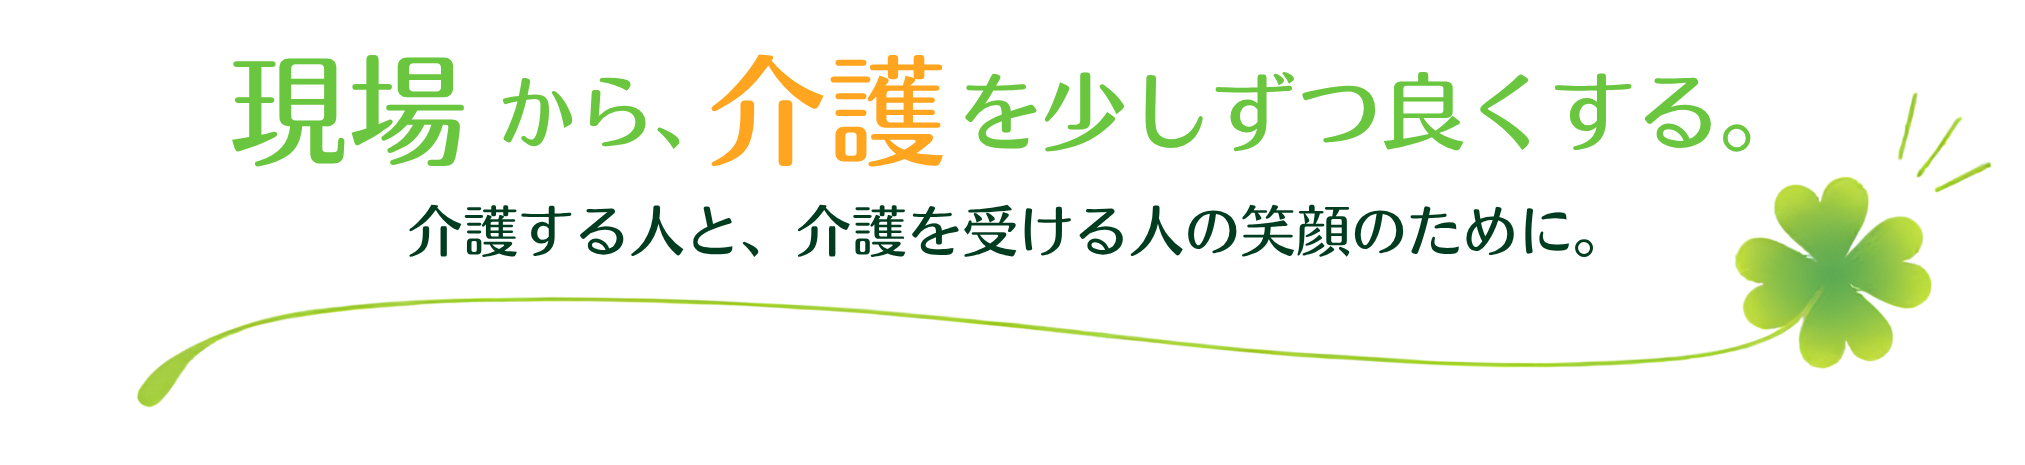
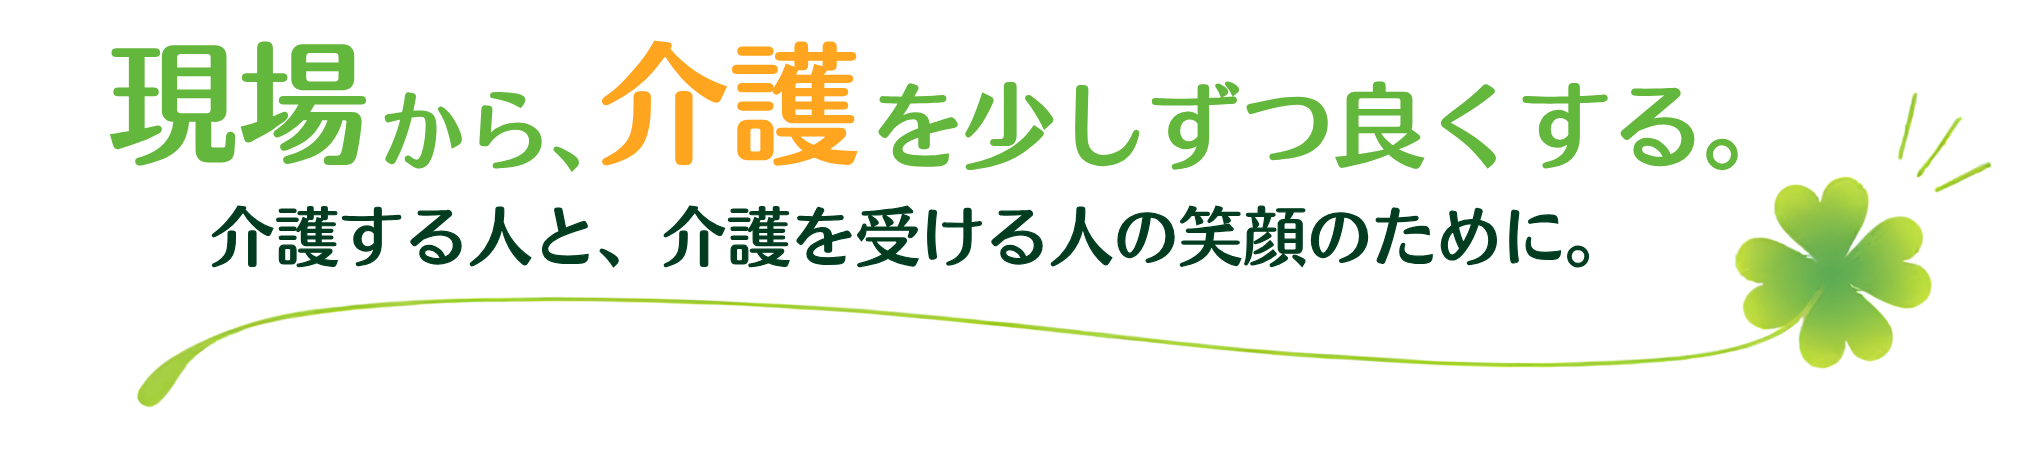
Add files via upload

Changed region(s): [[0.0311, 0.0903, 0.8711, 0.3613], [0.0933, 0.4215, 0.8089, 0.572]]

diff --git a/contact.html b/contact.html
@@ -158,7 +158,7 @@
             
             <!-- Catchphrase (Right) -->
             <div class="flex justify-end items-center flex-shrink min-w-0 max-w-[190px] sm:max-w-[300px] md:max-w-[420px] lg:max-w-[520px]">
-                <img src="assets/images/header-catchphrase.png?v=20260924" alt="現場から、介護を少しずつ良くする。介護する人と、介護を受ける人の笑顔のために。" class="h-10 sm:h-12 md:h-[3.75rem] lg:h-[4.5rem] w-auto max-w-full object-contain">
+                <img src="assets/images/header-catchphrase.png?v=20260925" alt="現場から、介護を少しずつ良くする。介護する人と、介護を受ける人の笑顔のために。" class="h-10 sm:h-12 md:h-[3.75rem] lg:h-[4.5rem] w-auto max-w-full object-contain">
             </div>
         </div>
     </header>

diff --git a/service.html b/service.html
@@ -100,7 +100,7 @@
             
             <!-- Catchphrase (Right) -->
             <div class="flex justify-end items-center flex-shrink min-w-0 max-w-[190px] sm:max-w-[300px] md:max-w-[420px] lg:max-w-[520px]">
-                <img src="assets/images/header-catchphrase.png?v=20260924" alt="現場から、介護を少しずつ良くする。介護する人と、介護を受ける人の笑顔のために。" class="h-10 sm:h-12 md:h-[3.75rem] lg:h-[4.5rem] w-auto max-w-full object-contain">
+                <img src="assets/images/header-catchphrase.png?v=20260925" alt="現場から、介護を少しずつ良くする。介護する人と、介護を受ける人の笑顔のために。" class="h-10 sm:h-12 md:h-[3.75rem] lg:h-[4.5rem] w-auto max-w-full object-contain">
             </div>
         </div>
     </header>

diff --git a/sns.html b/sns.html
@@ -222,7 +222,7 @@
             
             <!-- Catchphrase (Right) -->
             <div class="flex justify-end items-center flex-shrink min-w-0 max-w-[190px] sm:max-w-[300px] md:max-w-[420px] lg:max-w-[520px]">
-                <img src="assets/images/header-catchphrase.png?v=20260924" alt="現場から、介護を少しずつ良くする。介護する人と、介護を受ける人の笑顔のために。" class="h-10 sm:h-12 md:h-[3.75rem] lg:h-[4.5rem] w-auto max-w-full object-contain">
+                <img src="assets/images/header-catchphrase.png?v=20260925" alt="現場から、介護を少しずつ良くする。介護する人と、介護を受ける人の笑顔のために。" class="h-10 sm:h-12 md:h-[3.75rem] lg:h-[4.5rem] w-auto max-w-full object-contain">
             </div>
         </div>
     </header>

diff --git a/company.html b/company.html
@@ -78,7 +78,7 @@
             
             <!-- Catchphrase (Right) -->
             <div class="flex justify-end items-center flex-shrink min-w-0 max-w-[190px] sm:max-w-[300px] md:max-w-[420px] lg:max-w-[520px]">
-                <img src="assets/images/header-catchphrase.png?v=20260924" alt="現場から、介護を少しずつ良くする。介護する人と、介護を受ける人の笑顔のために。" class="h-10 sm:h-12 md:h-[3.75rem] lg:h-[4.5rem] w-auto max-w-full object-contain">
+                <img src="assets/images/header-catchphrase.png?v=20260925" alt="現場から、介護を少しずつ良くする。介護する人と、介護を受ける人の笑顔のために。" class="h-10 sm:h-12 md:h-[3.75rem] lg:h-[4.5rem] w-auto max-w-full object-contain">
             </div>
         </div>
     </header>

diff --git a/index.html b/index.html
@@ -72,7 +72,7 @@
             
             <!-- Catchphrase (Right) -->
             <div class="flex justify-end items-center flex-shrink min-w-0 max-w-[190px] sm:max-w-[300px] md:max-w-[420px] lg:max-w-[520px]">
-                <img src="assets/images/header-catchphrase.png?v=20260924" alt="現場から、介護を少しずつ良くする。介護する人と、介護を受ける人の笑顔のために。" class="h-10 sm:h-12 md:h-[3.75rem] lg:h-[4.5rem] w-auto max-w-full object-contain">
+                <img src="assets/images/header-catchphrase.png?v=20260925" alt="現場から、介護を少しずつ良くする。介護する人と、介護を受ける人の笑顔のために。" class="h-10 sm:h-12 md:h-[3.75rem] lg:h-[4.5rem] w-auto max-w-full object-contain">
             </div>
         </div>
     </header>

diff --git a/policy.html b/policy.html
@@ -56,7 +56,7 @@
             
             <!-- Catchphrase (Right) -->
             <div class="flex justify-end items-center flex-shrink min-w-0 max-w-[190px] sm:max-w-[300px] md:max-w-[420px] lg:max-w-[520px]">
-                <img src="assets/images/header-catchphrase.png?v=20260924" alt="現場から、介護を少しずつ良くする。介護する人と、介護を受ける人の笑顔のために。" class="h-10 sm:h-12 md:h-[3.75rem] lg:h-[4.5rem] w-auto max-w-full object-contain">
+                <img src="assets/images/header-catchphrase.png?v=20260925" alt="現場から、介護を少しずつ良くする。介護する人と、介護を受ける人の笑顔のために。" class="h-10 sm:h-12 md:h-[3.75rem] lg:h-[4.5rem] w-auto max-w-full object-contain">
             </div>
         </div>
     </header>

diff --git a/profile.html b/profile.html
@@ -71,7 +71,7 @@
             
             <!-- Catchphrase (Right) -->
             <div class="flex justify-end items-center flex-shrink min-w-0 max-w-[190px] sm:max-w-[300px] md:max-w-[420px] lg:max-w-[520px]">
-                <img src="assets/images/header-catchphrase.png?v=20260924" alt="現場から、介護を少しずつ良くする。介護する人と、介護を受ける人の笑顔のために。" class="h-10 sm:h-12 md:h-[3.75rem] lg:h-[4.5rem] w-auto max-w-full object-contain">
+                <img src="assets/images/header-catchphrase.png?v=20260925" alt="現場から、介護を少しずつ良くする。介護する人と、介護を受ける人の笑顔のために。" class="h-10 sm:h-12 md:h-[3.75rem] lg:h-[4.5rem] w-auto max-w-full object-contain">
             </div>
         </div>
     </header>

diff --git a/tokusho.html b/tokusho.html
@@ -56,7 +56,7 @@
             
             <!-- Catchphrase (Right) -->
             <div class="flex justify-end items-center flex-shrink min-w-0 max-w-[190px] sm:max-w-[300px] md:max-w-[420px] lg:max-w-[520px]">
-                <img src="assets/images/header-catchphrase.png?v=20260924" alt="現場から、介護を少しずつ良くする。介護する人と、介護を受ける人の笑顔のために。" class="h-10 sm:h-12 md:h-[3.75rem] lg:h-[4.5rem] w-auto max-w-full object-contain">
+                <img src="assets/images/header-catchphrase.png?v=20260925" alt="現場から、介護を少しずつ良くする。介護する人と、介護を受ける人の笑顔のために。" class="h-10 sm:h-12 md:h-[3.75rem] lg:h-[4.5rem] w-auto max-w-full object-contain">
             </div>
         </div>
     </header>
